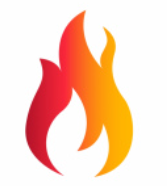
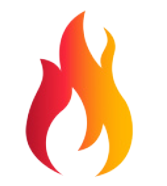
Modifications

diff --git a/src/main/java/gr/aueb/hci/alerts/CoolingAlert.java b/src/main/java/gr/aueb/hci/alerts/CoolingAlert.java
@@ -23,7 +23,7 @@ public class CoolingAlert extends JFrame {
     /**
      * Icon.
      */
-    private ImageIcon snowFlakeIcon = new ImageIcon( "assets/images/cool/snowflake_icon_big.png" );
+    private ImageIcon snowFlakeIcon = new ImageIcon( "assets/images/cool/snowflake.png" );
 
     /**
      * Content pane.

diff --git a/src/main/java/gr/aueb/hci/alerts/HeatingAlert.java b/src/main/java/gr/aueb/hci/alerts/HeatingAlert.java
@@ -25,7 +25,7 @@ public class HeatingAlert extends JFrame {
      */
     private JPanel contentPane;
 
-    ImageIcon fireIcon = new ImageIcon( "assets/images/heat/fire_big.png" );
+    ImageIcon fireIcon = new ImageIcon( "assets/images/heat/fire.png" );
 
     /**
      * Create the frame.
